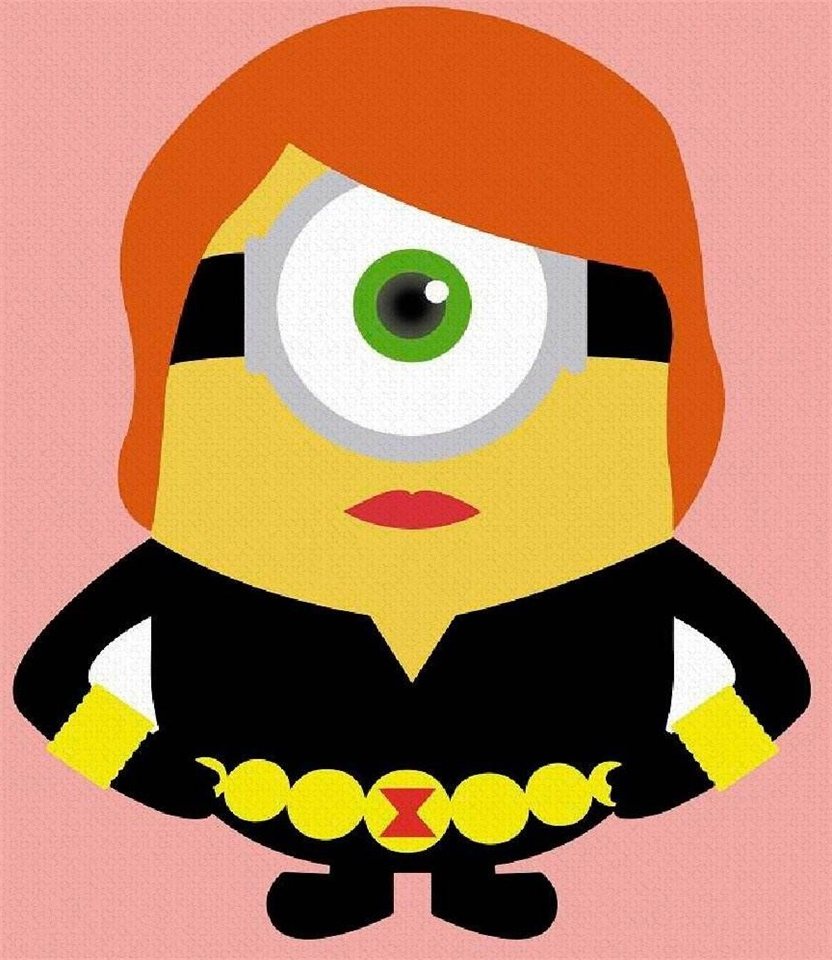
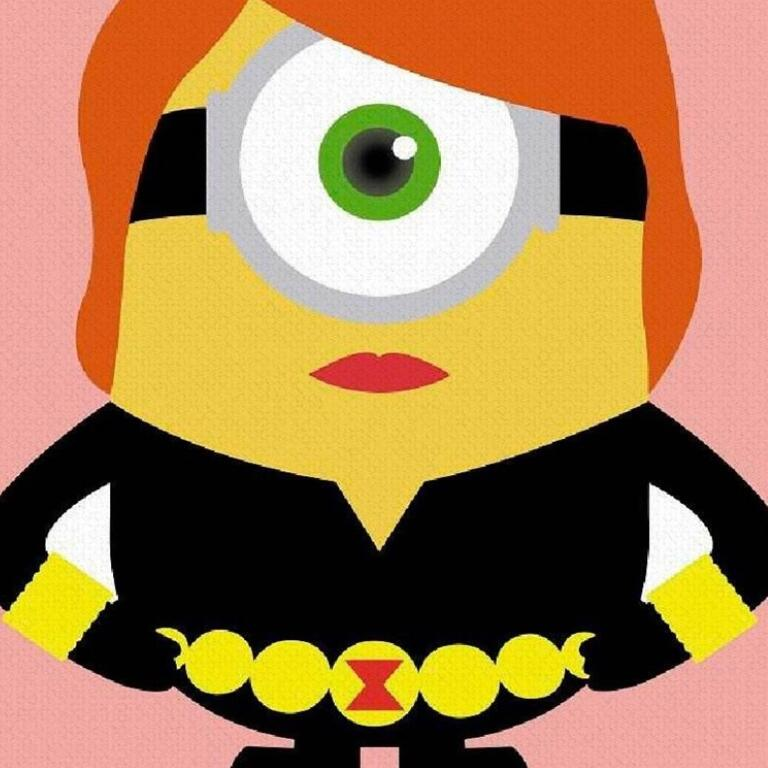
change pic size and mdl-card

diff --git a/public/stylesheets/display.css b/public/stylesheets/display.css
@@ -11,7 +11,7 @@
 
 
 .mdl-card {
-  height: 425px;
+  height: 475px;
 }
 
 .newround-card {
